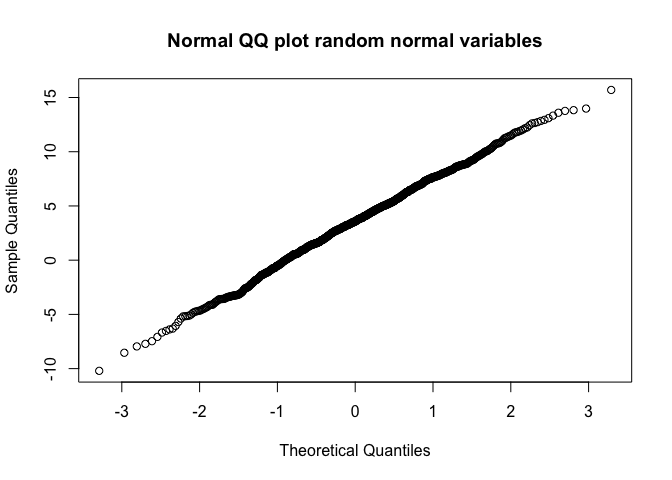
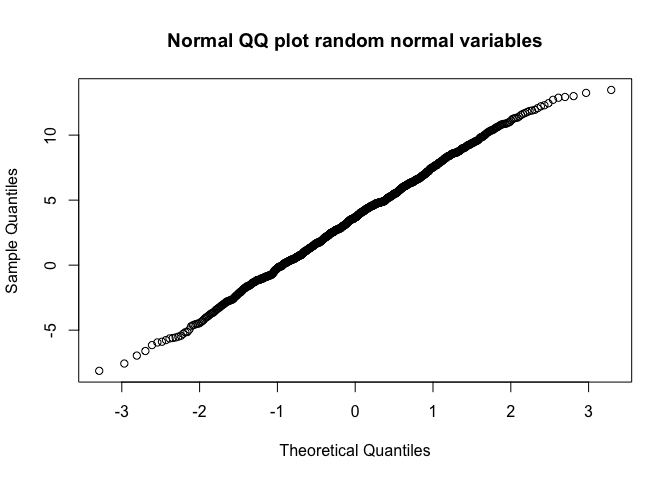
module 8 update

diff --git a/module-08/module-08.md b/module-08/module-08.md
@@ -696,19 +696,19 @@ Another one of the main functions in ***R*** for probability distributions, the 
 > mean(v)
 ```
 
-    ## [1] 3.508051
+    ## [1] 3.587718
 
 ``` r
 > var(v)
 ```
 
-    ## [1] 16.37382
+    ## [1] 14.83404
 
 ``` r
 > sd(v)
 ```
 
-    ## [1] 4.046458
+    ## [1] 3.851499
 
 ``` r
 > hist(v, breaks = seq(from = -15, to = 20, by = 0.5), probability = TRUE)
@@ -786,13 +786,13 @@ Any normal distribution with mean *μ* and standard deviation *σ* can be conver
 > mean(x)  # really close to 5
 ```
 
-    ## [1] 4.824898
+    ## [1] 5.016068
 
 ``` r
 > sd(x)  # really close to 8
 ```
 
-    ## [1] 7.923813
+    ## [1] 8.032362
 
 ``` r
 > z <- (x - mean(x))/sd(x)  # standardized!
@@ -805,7 +805,7 @@ Any normal distribution with mean *μ* and standard deviation *σ* can be conver
 > mean(z)  # really close to zero
 ```
 
-    ## [1] 1.957074e-18
+    ## [1] -4.440348e-17
 
 ``` r
 > sd(z)  # really close to 1
@@ -921,21 +921,21 @@ For vector *v* from CHALLENGE 6, use the `sample()` function with `size=30` and 
 > m
 ```
 
-    ## [1] 3.121878
+    ## [1] 3.23723
 
 ``` r
 > sd <- sd(s)
 > sd
 ```
 
-    ## [1] 4.705028
+    ## [1] 3.92326
 
 ``` r
 > sem <- sd(s)/sqrt(length(s))
 > sem
 ```
 
-    ## [1] 0.8590166
+    ## [1] 0.7162861
 
 ``` r
 > lower <- m - qnorm(1 - 0.05/2) * sem  # (1-alpha)/2 each in upper and lower trail of distribution
@@ -944,7 +944,7 @@ For vector *v* from CHALLENGE 6, use the `sample()` function with `size=30` and 
 > ci
 ```
 
-    ## [1] 1.438236 4.805520
+    ## [1] 1.833335 4.641125
 
 ``` r
 > pop_se <- sigma/sqrt(length(s))
